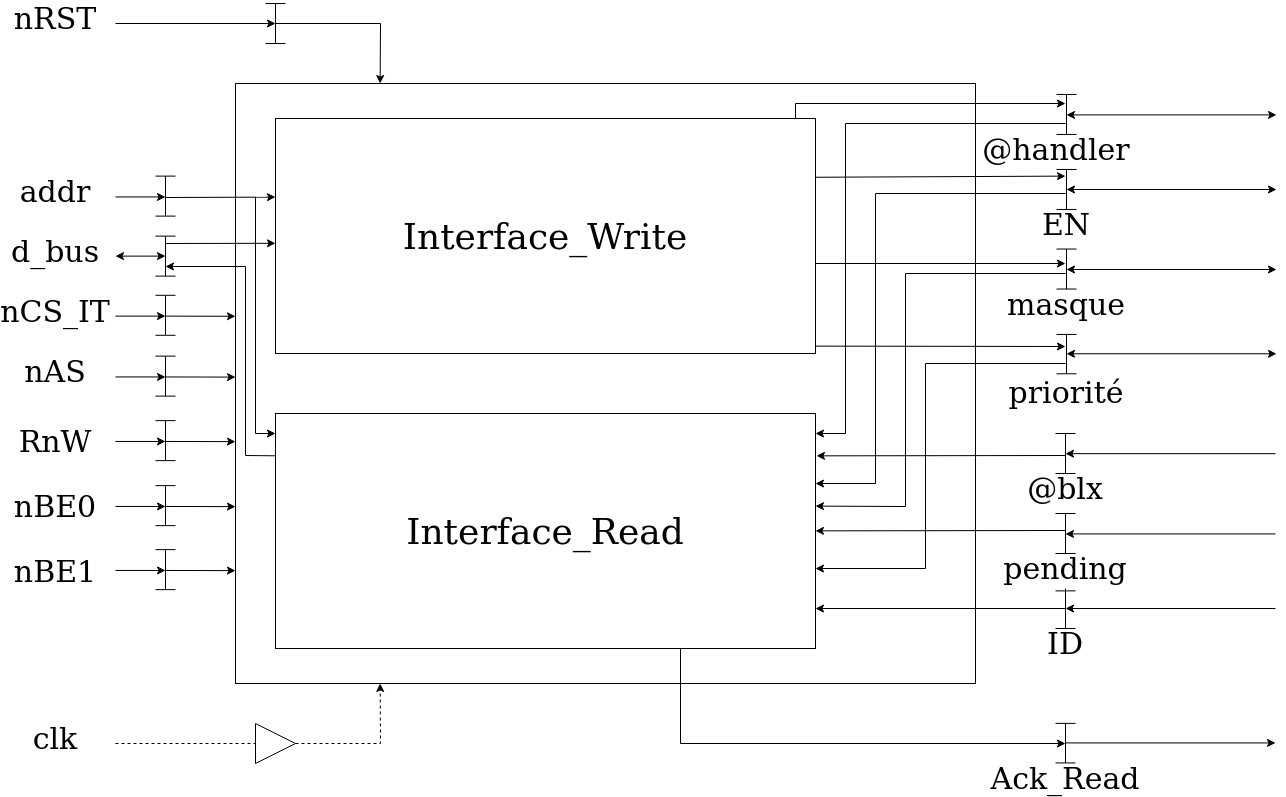
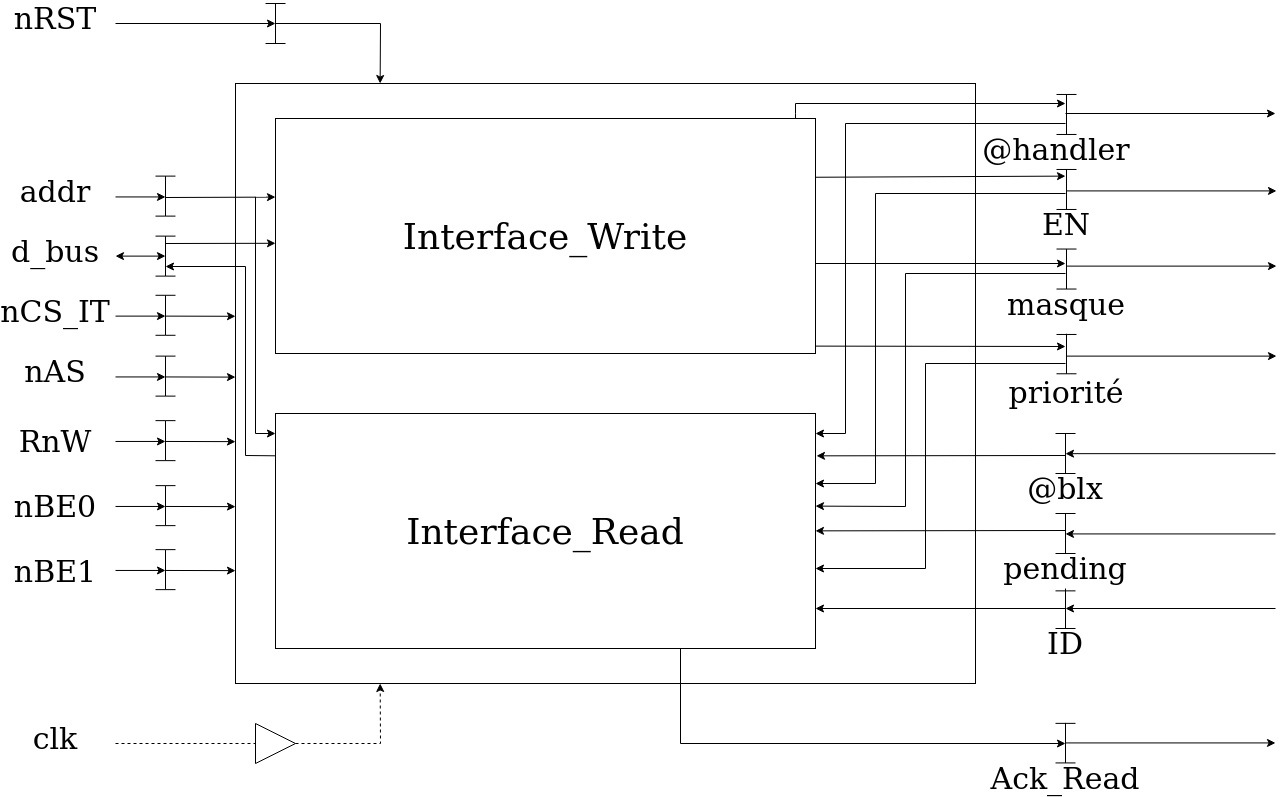
Rédaction modification figures

diff --git a/report/texContent/50_conception.tex b/report/texContent/50_conception.tex
@@ -141,7 +141,8 @@ entree var vect_handler 	: Def_vect_handler;
 entree var masque 			: Def_masque;
 entree var pending 			: Def_pending
 entree var blx 				: Def_blx;
-sortie var d_bus 			: Def_data
+sortie var d_bus 			: Def_data;
+sortie var Ack_Read			: Def_bit;
 );
 
 var TriState 				: HauteImpedance;
@@ -159,9 +160,10 @@ begin
 	cycle H:
 	begin
 	if (nRST=0) then
-		//ne rien faire
+		Ack_Read := 0;
 	end if;
 	d_bus := TriState;
+	Ack_Read := 0;
 	if (nCS_IT=0) et (RnW=1) et (nAS=0) then
 		case addr of
 		addr_EN:
@@ -176,6 +178,7 @@ begin
 			d_bus := pending;
 		addr_blx:
 			d_bus := blx;
+			Ack_Read := 1;
 	end if;
 	end cycle H;
 end cycle;
